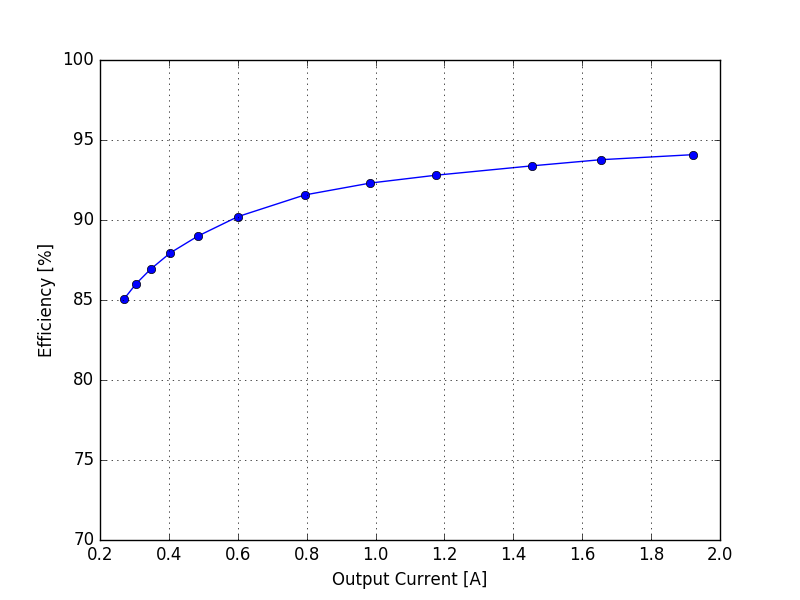
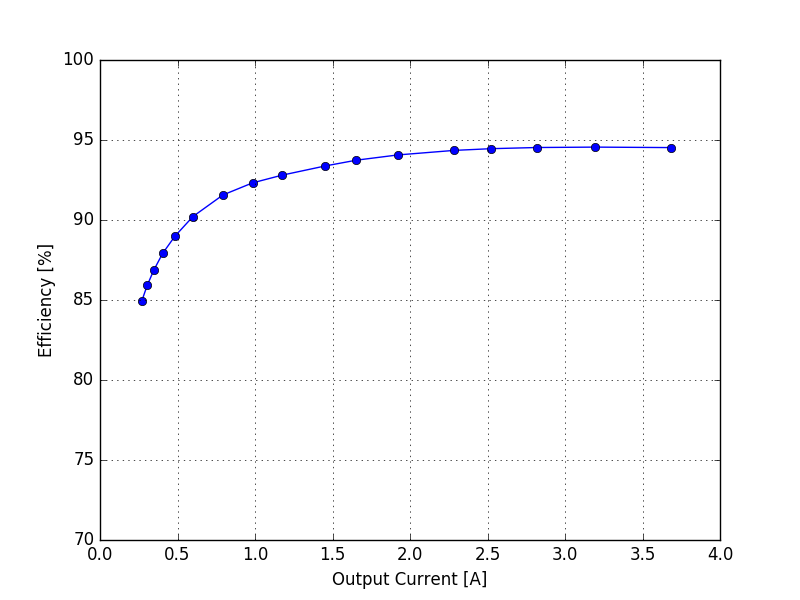
More measurements

diff --git a/gpib_measurement/dickson/SC_efficiency_6030a_yokogawa.py b/gpib_measurement/dickson/SC_efficiency_6030a_yokogawa.py
@@ -35,7 +35,7 @@ meter_Out = prologix_wt310(prologix=gpib, addr=1, debug=False)
 # =========================================================================/
 power_supply.setCurrent(1.1)
 power_supply.setVoltage(0)
-setVoltage(power_supply,90,5)
+setVoltage(power_supply,130,5)
 
 # eload.setMode("CURR")
 # eload.setSlew(10)
@@ -45,8 +45,8 @@ setVoltage(power_supply,90,5)
 eload.setMode("RES")
 eload.setSlew(10)
 eload.setValue(100)
-# load_resistance = [50, 45, 40, 35, 30, 25, 20, 15, 12, 10, 8, 7, 6]
-load_resistance = [50, 45, 40, 35, 30, 25, 20, 15, 12, 10, 8, 7, 6, 5, 4.5, 4, 3.5, 3, 2.75, 2.5]
+load_resistance = [50, 45, 40, 35, 30, 25, 20, 15, 12, 10, 8, 7, 6, 5, 4.5, 4, 3.5, 3]
+# load_resistance = [50, 45, 40, 35, 30, 25, 20, 15, 12, 10, 8, 7, 6, 5, 4.5, 4, 3.5, 3, 2.75, 2.5]
 load_current = np.arange(0.2, 1.0 + 0.1, 0.1)
 
 

diff --git a/gpib_measurement/dickson/data/plot_efficiency_vs_frequency_1000n.m b/gpib_measurement/dickson/data/plot_efficiency_vs_frequency_1000n.m
@@ -13,7 +13,7 @@ if Vin == 90
                 90 80 700 20 80 '_deadtime';...
             };
 elseif Vin == 130
-    to_plot = { 130 55 250 20 90 '_deadtime'; ...
+    to_plot = { 130 55 250 20 80 '_deadtime'; ...
                 130 55 500 20 80 '_deadtime';...
             };
 end
@@ -59,7 +59,7 @@ if strcmp(plot_type,'loss') == 1
     plot([1 10], [0.1 10], '--')
     plot([0.1 10], [0.1 10], '--')
 elseif strcmp(plot_type,'efficiency') == 1
-    ylim([80 97])
+    ylim([90 97])
     xlim([00 5])
     ylabel('Efficiency (\%)')
 else
